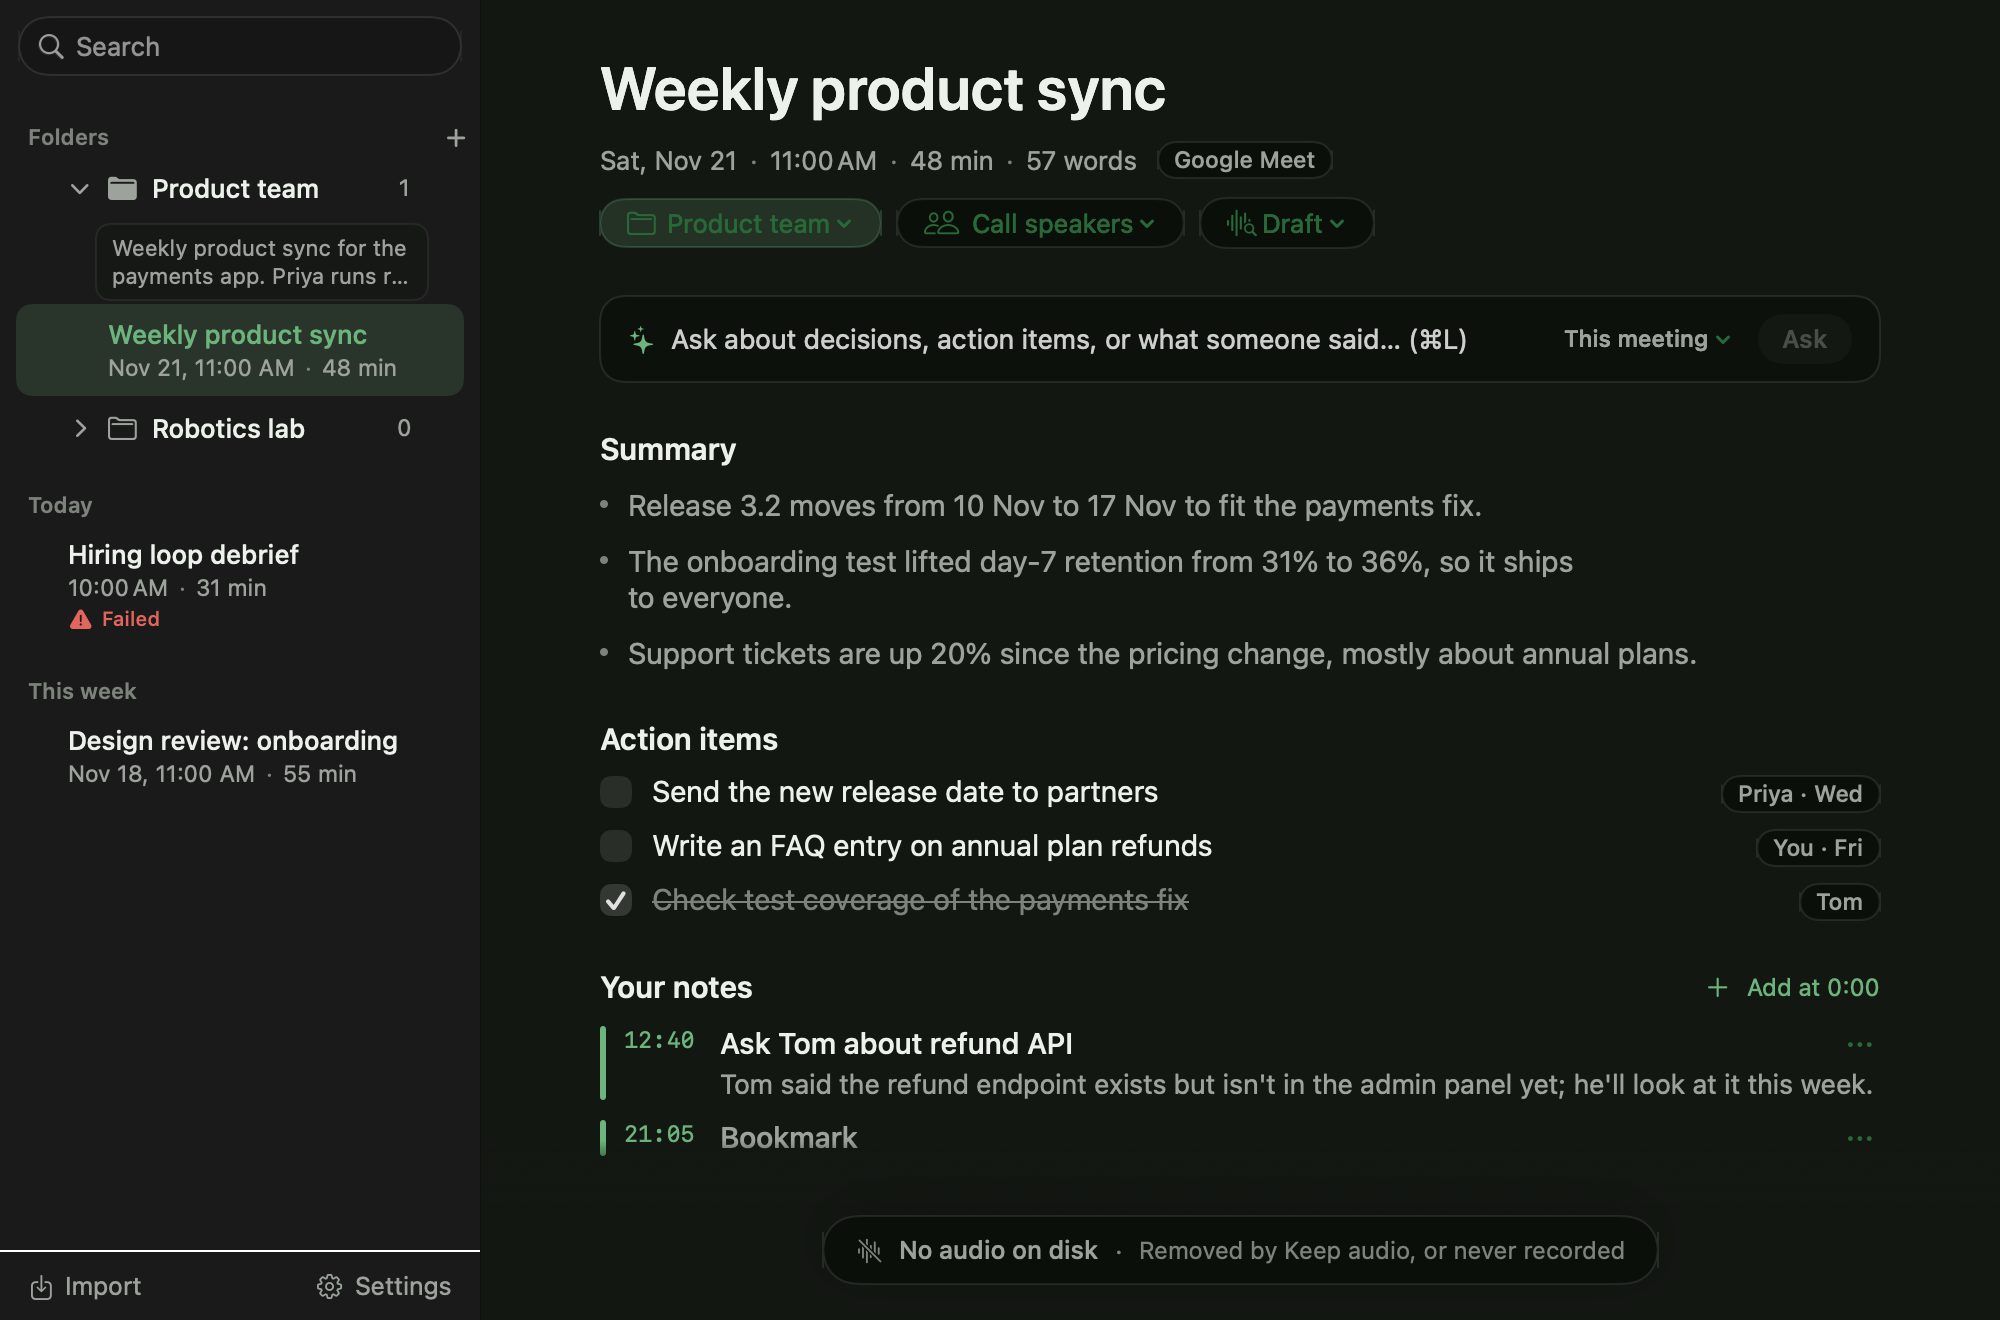
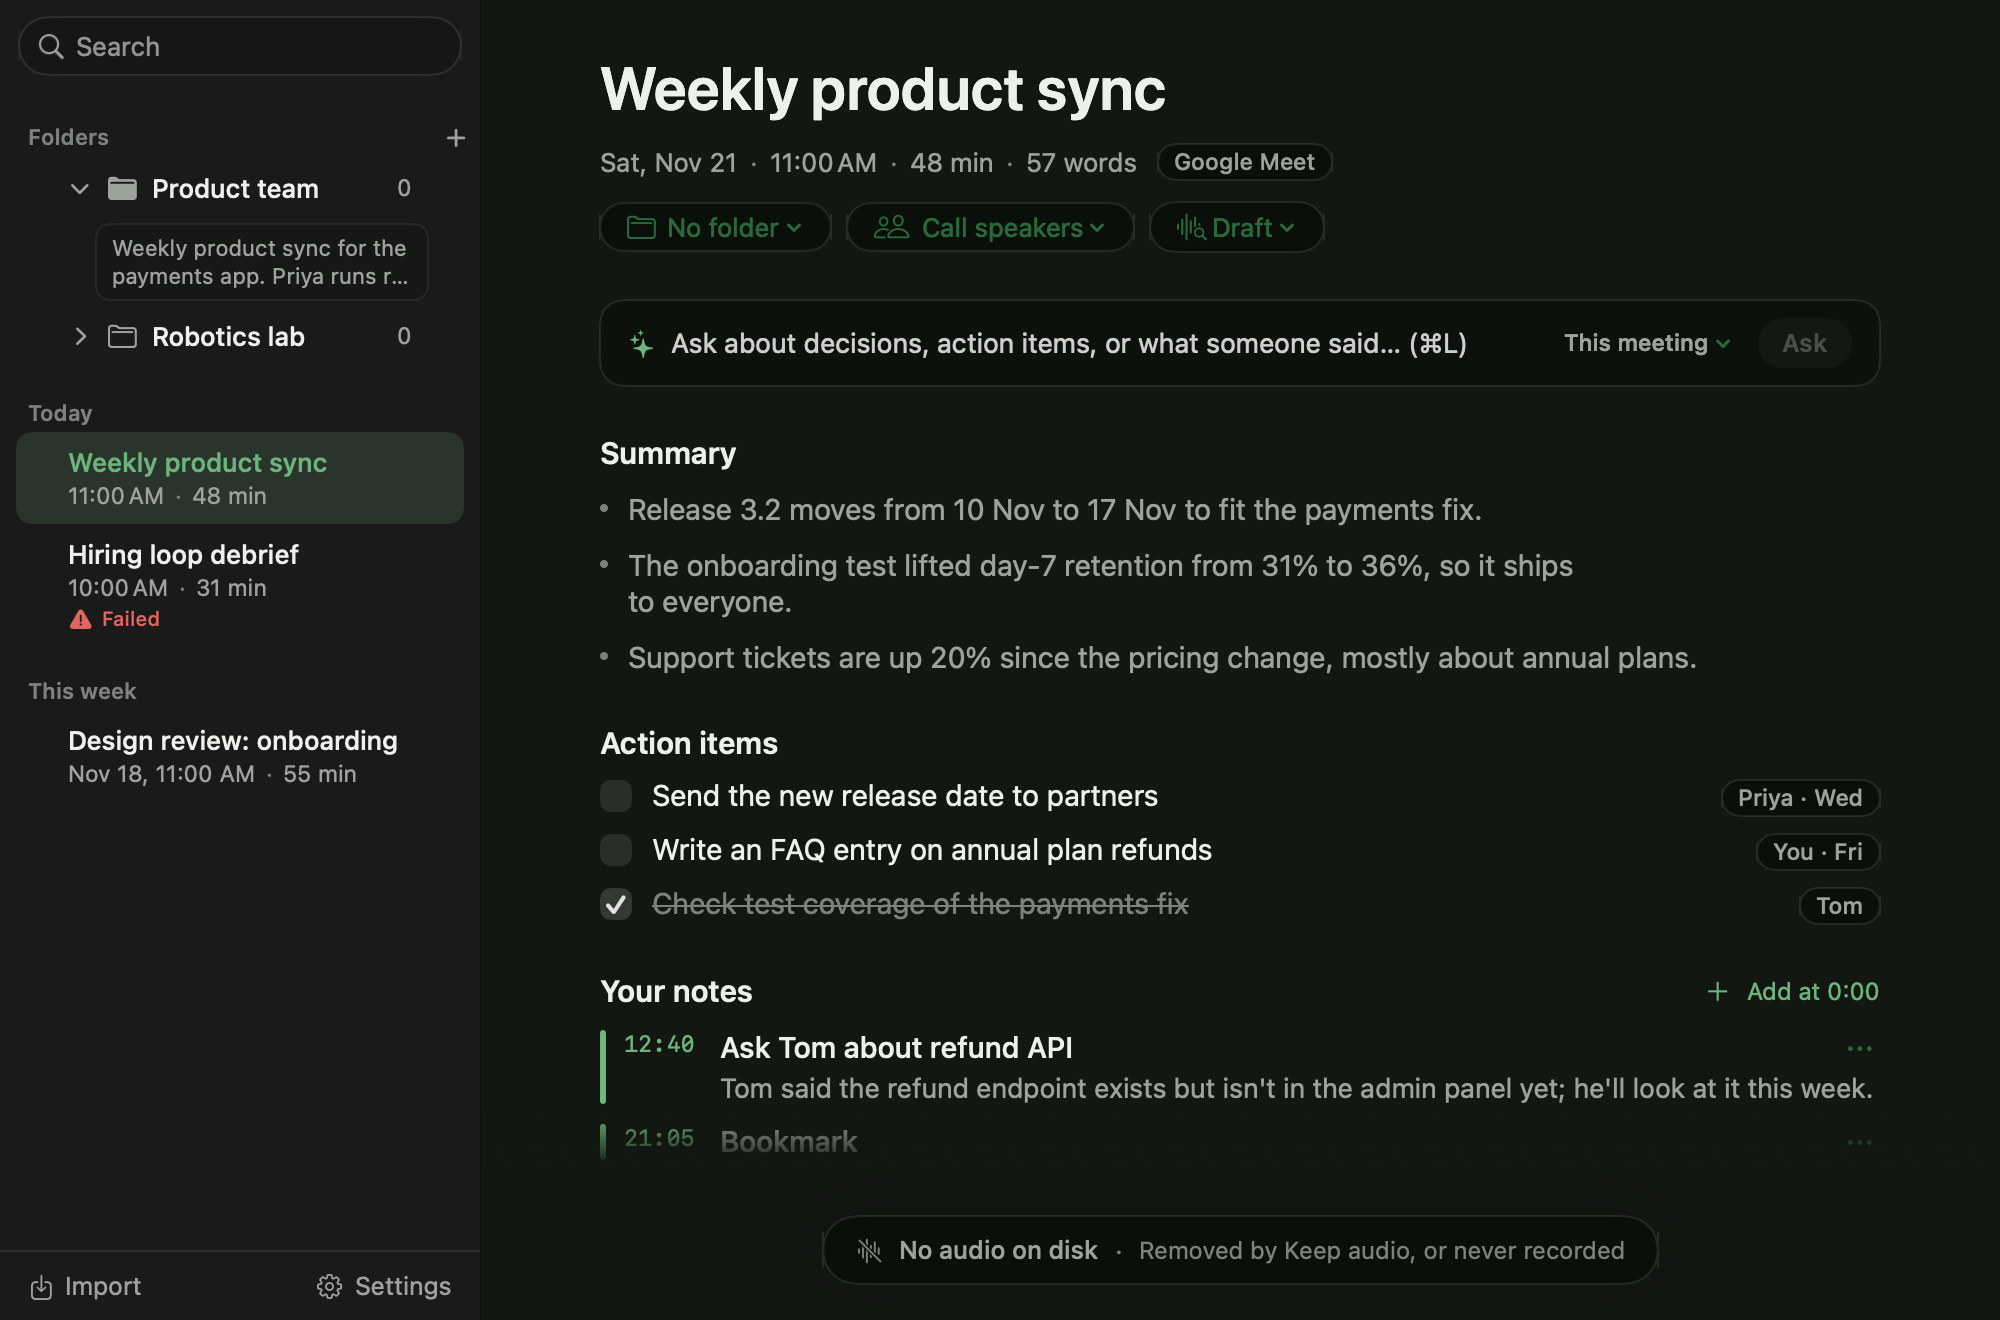
Fix sidebar footer and PlayerCapsule Liquid Glass scroll collisions

diff --git a/ReMeet/UI/Meeting/MeetingSidebar.swift b/ReMeet/UI/Meeting/MeetingSidebar.swift
@@ -22,52 +22,96 @@ struct MeetingSidebar: View {
         // Selection is drawn as the Fern "mark" (soft accent tint, accent title, readable meta
         // line) instead of the system highlight, whose white text on the dark-mode green was
         // 2.2:1. Arrow keys still move the selection.
-        List {
-            folderSection
-            if model.recorder.isRecording {
-                LiveRow()
-                    .padding(.vertical, 5)
-                    .padding(.horizontal, 10)
-                    .frame(maxWidth: .infinity, alignment: .leading)
-                    .contentShape(Rectangle())
-                    .onTapGesture { select(.live) }
-                    .listRowInsets(EdgeInsets(top: 0, leading: 8, bottom: 0, trailing: 8))
-            }
-            ForEach(groups, id: \.0) { group, items in
-                let list = shown(items, limit: SidebarList.groupLimit, id: group.rawValue)
-                Section {
-                    ForEach(list.rows) { item in
-                        meetingRow(item, isTodayGroup: group == .today)
-                            // Dropping on the list outside the folders takes a recording out.
-                            .dropDestination(for: String.self) { drops, _ in
-                                drop(drops, intoFolder: nil)
-                            } isTargeted: { dropTarget = $0 ? item.id : (dropTarget == item.id ? nil : dropTarget) }
+        // Stack the List above the footer in a VStack rather than `.safeAreaInset(edge: .bottom)`
+        // so scrolled rows clip cleanly at the Divider and never bleed through Import / Settings
+        // in macOS's Liquid Glass sidebar.
+        VStack(spacing: 0) {
+            List {
+                folderSection
+                if model.recorder.isRecording {
+                    LiveRow()
+                        .padding(.vertical, 5)
+                        .padding(.horizontal, 10)
+                        .frame(maxWidth: .infinity, alignment: .leading)
+                        .contentShape(Rectangle())
+                        .onTapGesture { select(.live) }
+                        .listRowInsets(EdgeInsets(top: 0, leading: 8, bottom: 0, trailing: 8))
+                }
+                ForEach(groups, id: \.0) { group, items in
+                    let list = shown(items, limit: SidebarList.groupLimit, id: group.rawValue)
+                    Section {
+                        ForEach(list.rows) { item in
+                            meetingRow(item, isTodayGroup: group == .today)
+                                // Dropping on the list outside the folders takes a recording out.
+                                .dropDestination(for: String.self) { drops, _ in
+                                    drop(drops, intoFolder: nil)
+                                } isTargeted: { dropTarget = $0 ? item.id : (dropTarget == item.id ? nil : dropTarget) }
+                        }
+                        showMoreRow(id: group.rawValue, hidden: list.hidden, total: items.count, limit: SidebarList.groupLimit)
+                    } header: {
+                        Text(group.rawValue)
+                            .font(.system(size: 11, weight: .semibold))
+                            .foregroundStyle(Theme.fg3)
+                            .textCase(nil)
                     }
-                    showMoreRow(id: group.rawValue, hidden: list.hidden, total: items.count, limit: SidebarList.groupLimit)
-                } header: {
-                    Text(group.rawValue)
-                        .font(.system(size: 11, weight: .semibold))
-                        .foregroundStyle(Theme.fg3)
-                        .textCase(nil)
+                }
+                if groups.isEmpty, search.isEmpty, hasFiledMeetings {
+                    // Everything is in folders: still somewhere to drag a recording out to.
+                    Text("Drag a recording here to take it out of its folder.")
+                        .font(.system(size: 11.5))
+                        .foregroundStyle(Theme.fg2)
+                        .sidebarRow(selected: dropTarget == "unfiled") {}
+                        .dropDestination(for: String.self) { drops, _ in
+                            drop(drops, intoFolder: nil)
+                        } isTargeted: { dropTarget = $0 ? "unfiled" : (dropTarget == "unfiled" ? nil : dropTarget) }
                 }
             }
-            if groups.isEmpty, search.isEmpty, hasFiledMeetings {
-                // Everything is in folders: still somewhere to drag a recording out to.
-                Text("Drag a recording here to take it out of its folder.")
-                    .font(.system(size: 11.5))
-                    .foregroundStyle(Theme.fg2)
-                    .sidebarRow(selected: dropTarget == "unfiled") {}
-                    .dropDestination(for: String.self) { drops, _ in
-                        drop(drops, intoFolder: nil)
-                    } isTargeted: { dropTarget = $0 ? "unfiled" : (dropTarget == "unfiled" ? nil : dropTarget) }
+            .listStyle(.sidebar)
+            .transaction { $0.disablesAnimations = true }
+            .focusable()
+            .focusEffectDisabled()
+            .onKeyPress(.downArrow) { move(1) }
+            .onKeyPress(.upArrow) { move(-1) }
+            .overlay {
+                if !search.isEmpty && groups.isEmpty {
+                    ContentUnavailableView.search(text: search)
+                }
             }
+
+            Theme.line.frame(height: 1)
+            HStack(spacing: 12) {
+                Button {
+                    model.importMeetingAudioChosen()
+                } label: {
+                    HStack(spacing: 5) {
+                        Image(systemName: "square.and.arrow.down")
+                            .font(.system(size: 12))
+                        Text("Import")
+                    }
+                    .foregroundStyle(Theme.fg2)
+                    .hitTarget(6)
+                }
+                .buttonStyle(.plain)
+                .help("Import an existing audio recording to transcribe and summarize")
+                Spacer()
+                Button {
+                    model.openSettings()
+                } label: {
+                    HStack(spacing: 5) {
+                        Image(systemName: "gearshape")
+                            .font(.system(size: 12))
+                        Text("Settings")
+                    }
+                    .foregroundStyle(Theme.fg2)
+                    .hitTarget(6)
+                }
+                .buttonStyle(.plain)
+                .help("Settings (⌘,)")
+            }
+            .font(.system(size: 12.5))
+            .padding(.horizontal, 14)
+            .padding(.vertical, 9)
         }
-        .listStyle(.sidebar)
-        .transaction { $0.disablesAnimations = true }
-        .focusable()
-        .focusEffectDisabled()
-        .onKeyPress(.downArrow) { move(1) }
-        .onKeyPress(.upArrow) { move(-1) }
         // A meeting opened from elsewhere (menu bar, notification) shows inside its folder.
         .onChange(of: selection) { _, next in
             guard case .meeting(let folder) = next,
@@ -79,48 +123,6 @@ struct MeetingSidebar: View {
             try? await Task.sleep(for: .milliseconds(search.isEmpty ? 0 : 150))
             guard !Task.isCancelled else { return }
             await model.runSearch(search)
-        }
-        .overlay {
-            if !search.isEmpty && groups.isEmpty {
-                ContentUnavailableView.search(text: search)
-            }
-        }
-        .safeAreaInset(edge: .bottom) {
-            VStack(spacing: 0) {
-                Divider()
-                HStack(spacing: 12) {
-                    Button {
-                        model.importMeetingAudioChosen()
-                    } label: {
-                        HStack(spacing: 5) {
-                            Image(systemName: "square.and.arrow.down")
-                                .font(.system(size: 12))
-                            Text("Import")
-                        }
-                        .foregroundStyle(Theme.fg2)
-                        .hitTarget(6)
-                    }
-                    .buttonStyle(.plain)
-                    .help("Import an existing audio recording to transcribe and summarize")
-                    Spacer()
-                    Button {
-                        model.openSettings()
-                    } label: {
-                        HStack(spacing: 5) {
-                            Image(systemName: "gearshape")
-                                .font(.system(size: 12))
-                            Text("Settings")
-                        }
-                        .foregroundStyle(Theme.fg2)
-                        .hitTarget(6)
-                    }
-                    .buttonStyle(.plain)
-                    .help("Settings (⌘,)")
-                }
-                .font(.system(size: 12.5))
-                .padding(.horizontal, 14)
-                .padding(.vertical, 9)
-            }
         }
         .alert("Rename meeting", isPresented: Binding(get: { renaming != nil }, set: { if !$0 { renaming = nil } })) {
             TextField("Title", text: $renameText)
@@ -645,6 +647,7 @@ private struct FolderEditorSheet: View {
                 }
                 .keyboardShortcut(.defaultAction)
                 .buttonStyle(.glassProminent)
+                .tint(Theme.accentFill)
                 .disabled(name.trimmingCharacters(in: .whitespacesAndNewlines).isEmpty)
             }
         }

diff --git a/ReMeet/UI/Meeting/MeetingDetailView.swift b/ReMeet/UI/Meeting/MeetingDetailView.swift
@@ -82,18 +82,21 @@ struct MeetingDetailView: View {
             .frame(maxWidth: 640, alignment: .leading)
             .padding(.horizontal, 40)
             .padding(.top, 26)
-            .padding(.bottom, 128)
+            .padding(.bottom, 132)
             .frame(maxWidth: .infinity)
         }
         .background(Theme.surface)
         .overlay(alignment: .bottom) {
+            // Solid Theme.surface covers the full height of PlayerCapsule (+ 12 pt above it)
+            // so scrolled content fades cleanly before reaching the capsule and never refracts
+            // or collides through Liquid Glass.
             VStack(spacing: 0) {
-                LinearGradient(colors: [Theme.surface.opacity(0), Theme.surface.opacity(0.92), Theme.surface],
+                LinearGradient(colors: [Theme.surface.opacity(0), Theme.surface],
                                startPoint: .top, endPoint: .bottom)
-                    .frame(height: 36)
+                    .frame(height: 28)
                     .allowsHitTesting(false)
                 Theme.surface
-                    .frame(height: 54)
+                    .frame(height: 76)
                     .allowsHitTesting(false)
             }
             .overlay(alignment: .bottom) {
@@ -243,6 +246,7 @@ struct MeetingDetailView: View {
                         editingDate = false
                     }
                     .buttonStyle(.borderedProminent)
+                    .tint(Theme.accentFill)
                     .controlSize(.small)
                     .keyboardShortcut(.defaultAction)
                 }
@@ -616,6 +620,7 @@ private struct NotesSection: View {
                         model.regenerateSummary(document.folder, backend: model.summaryBackend)
                     }
                     .buttonStyle(.glassProminent)
+                    .tint(Theme.accentFill)
                 }
                 .padding(10)
                 .background(Theme.mark, in: RoundedRectangle(cornerRadius: 10))

diff --git a/CHANGELOG.md b/CHANGELOG.md
@@ -48,6 +48,10 @@ All performance numbers were measured on a **base Apple M4 MacBook Pro (16 GB un
 ### UI / UX Redesign & Bug Fixes
 - **Audio import preserves original recording date (`AudioImport`, `AppModel`):** Importing an existing audio file now uses the file's original creation date (embedded container `.creationDate` metadata first—preserving Voice Memos / AirDropped `.m4a` dates—then filesystem creation/earlier modification date) for the meeting folder name, `meta.startTime`/`endTime`, sidebar date grouping, and AI Markdown export filename instead of the import timestamp.
 - **Editable meeting date & time (`MeetingDetailView`, `MeetingDocument`, `MeetingLibrary`):** Clicking a meeting's date/time in the header opens a calendar + time popover to adjust `startTime` (preserving duration and `endTime`), immediately re-sorting the sidebar, rewriting `summary.md`, updating the search index, and renaming/updating any auto-exported AI `.md` file.
+- **Liquid Glass & scroll collision fixes (`MeetingSidebar`, `MeetingDetailView`):**
+  - Replaced `.safeAreaInset(edge: .bottom)` in `MeetingSidebar` with a `VStack(spacing: 0)` separating `List` and the **Import / Settings** footer so scrolled rows clip cleanly above the `Divider` and never bleed through the Liquid Glass sidebar footer.
+  - Raised the solid `Theme.surface` dock beneath `PlayerCapsule` from `54 pt` to `76 pt` (above the capsule's `64 pt` top edge, with a `28 pt` fade gradient above it) so scrolled headings and action items fade out cleanly before reaching `PlayerCapsule`'s Liquid Glass surface.
+  - Added `.tint(Theme.accentFill)` to prominent buttons in `MeetingDetailView` and `FolderEditorSheet` for consistent dark-mode contrast.
 - Visually audited all views in Light and Dark mode via `--snapshots` renderer:
   - **Meeting Detail:** Reorganized into a clean 2-row header (Row 1: non-truncating date/time/duration/words + app pill; Row 2: pill chips for Folder, Call speakers, and Engine/Wording), placed **Summary**, **Action items** (with owner/due pills), and **Your notes** immediately above the fold, collapsed **Speakers** into a tidy disclosure card with an unnamed-speaker badge, and added a bottom fade gradient above the floating player.
   - **Chat bar:** Collapsed idle chat from a 150 pt card into a sleek 1-row expandable ask bar; removed `.defaultAction` Return hijack that conflicted with title/note editing.
